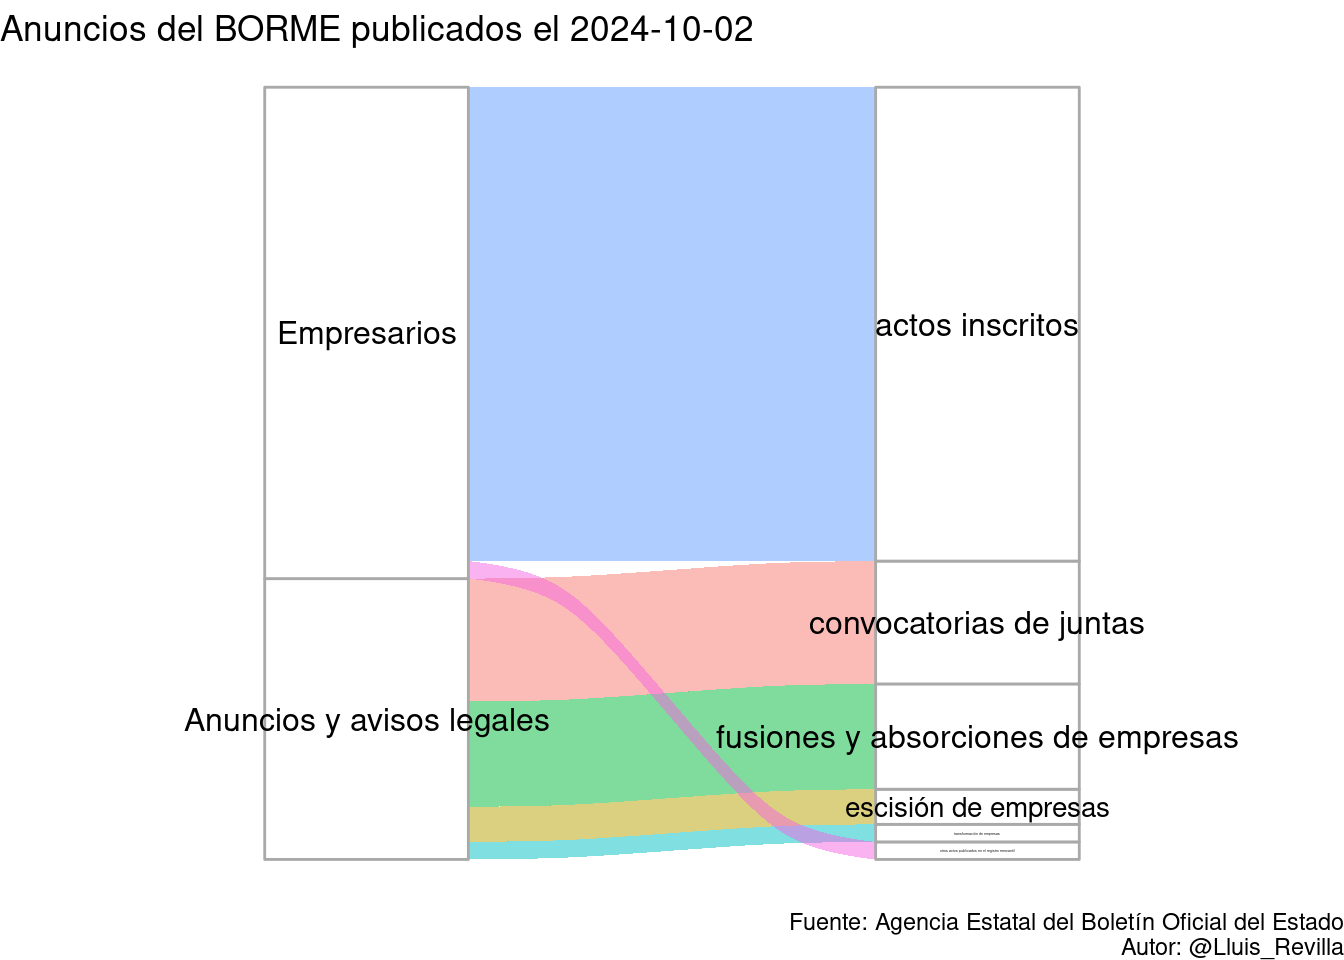
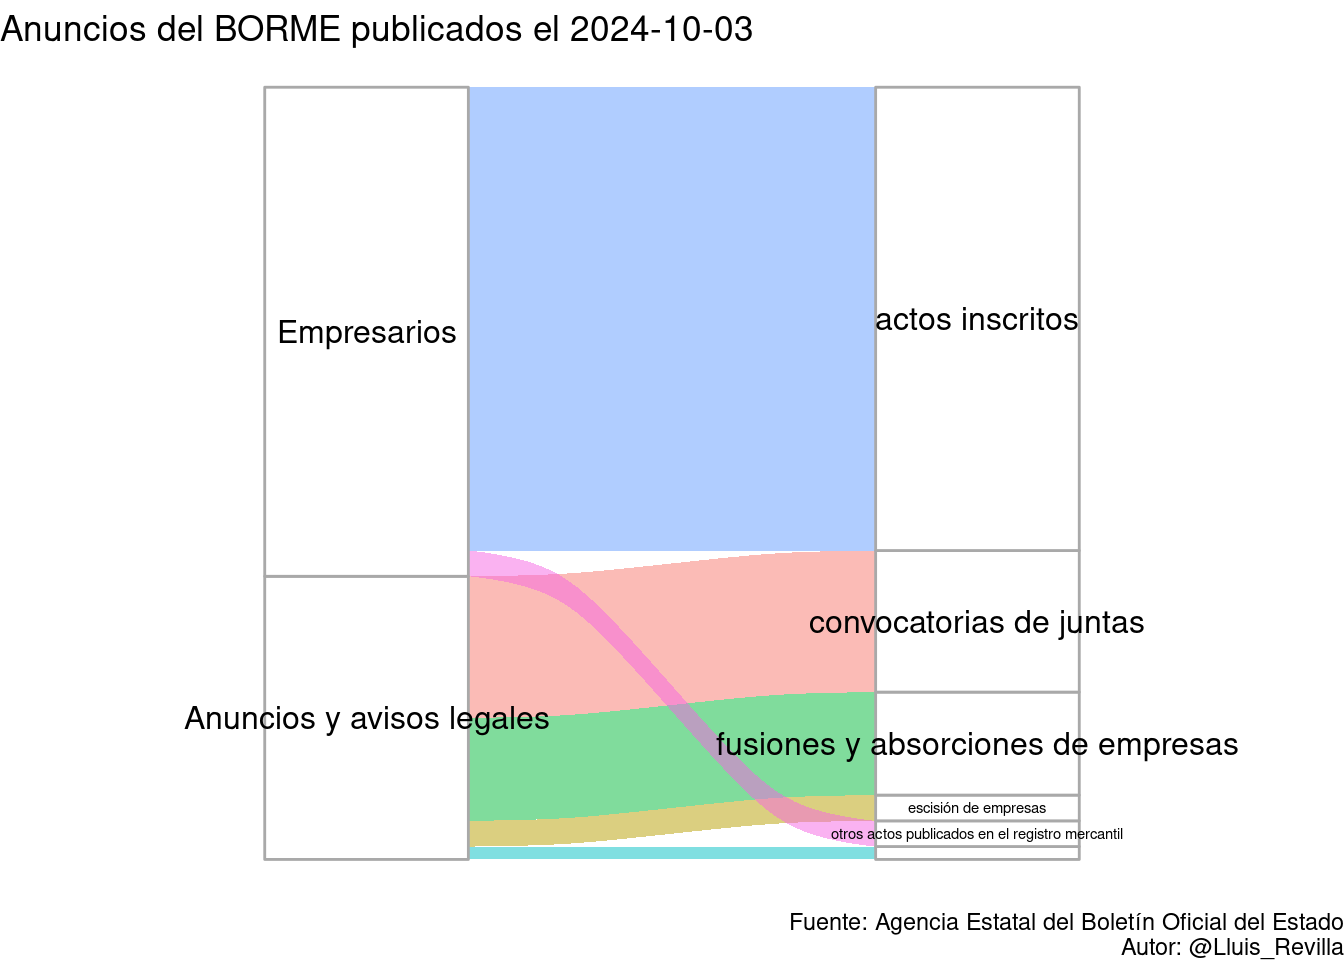
Update BORME

diff --git a/docs/last_BORME.html b/docs/last_BORME.html
@@ -379,14 +379,14 @@ $(document).ready(function () {
 
 <div id="resumen-gráfico" class="section level1">
 <h1>Resumen gráfico</h1>
-<p>Esta página web contiene el último sumario del BORME publicado el 2024-10-02 con 44 publicaciones.</p>
+<p>Esta página web contiene el último sumario del BORME publicado el 2024-10-03 con 60 publicaciones.</p>
 <p><img src="last_BORME_files/figure-html/graphics-1.png" width="672" /></p>
 </div>
 <div id="tabla-de-publicaciones" class="section level1">
 <h1>Tabla de publicaciones</h1>
 <p>Aquí está la tabla completa con enlaces a las publicaciones:</p>
-<div class="datatables html-widget html-fill-item-overflow-hidden html-fill-item" id="htmlwidget-44bd365028ac21843c6c" style="width:100%;height:auto;"></div>
-<script type="application/json" data-for="htmlwidget-44bd365028ac21843c6c">{"x":{"filter":"top","vertical":false,"filterHTML":"<tr>\n  <td><\/td>\n  <td data-type=\"character\" style=\"vertical-align: top;\">\n    <div class=\"form-group has-feedback\" style=\"margin-bottom: auto;\">\n      <input type=\"search\" placeholder=\"All\" class=\"form-control\" style=\"width: 100%;\"/>\n      <span class=\"glyphicon glyphicon-remove-circle form-control-feedback\"><\/span>\n    <\/div>\n  <\/td>\n  <td data-type=\"character\" style=\"vertical-align: top;\">\n    <div class=\"form-group has-feedback\" style=\"margin-bottom: auto;\">\n      <input type=\"search\" placeholder=\"All\" class=\"form-control\" style=\"width: 100%;\"/>\n      <span class=\"glyphicon glyphicon-remove-circle form-control-feedback\"><\/span>\n    <\/div>\n  <\/td>\n  <td data-type=\"character\" style=\"vertical-align: top;\">\n    <div class=\"form-group has-feedback\" style=\"margin-bottom: auto;\">\n      <input type=\"search\" placeholder=\"All\" class=\"form-control\" style=\"width: 100%;\" disabled=\"\"/>\n      <span class=\"glyphicon glyphicon-remove-circle form-control-feedback\"><\/span>\n    <\/div>\n  <\/td>\n  <td data-type=\"character\" style=\"vertical-align: top;\">\n    <div class=\"form-group has-feedback\" style=\"margin-bottom: auto;\">\n      <input type=\"search\" placeholder=\"All\" class=\"form-control\" style=\"width: 100%;\"/>\n      <span class=\"glyphicon glyphicon-remove-circle form-control-feedback\"><\/span>\n    <\/div>\n  <\/td>\n<\/tr>","data":[["1","2","3","4","5","6","7","8","9","10","11","12","13","14","15","16","17","18","19","20","21","22","23","24","25","26","27","28","29","30","31","32","33","34","35","36","37","38","39","40","41","42","43","44"],["SECCIÓN PRIMERA. Empresarios","SECCIÓN PRIMERA. Empresarios","SECCIÓN PRIMERA. Empresarios","SECCIÓN PRIMERA. Empresarios","SECCIÓN PRIMERA. Empresarios","SECCIÓN PRIMERA. Empresarios","SECCIÓN PRIMERA. Empresarios","SECCIÓN PRIMERA. Empresarios","SECCIÓN PRIMERA. Empresarios","SECCIÓN PRIMERA. Empresarios","SECCIÓN PRIMERA. Empresarios","SECCIÓN PRIMERA. Empresarios","SECCIÓN PRIMERA. Empresarios","SECCIÓN PRIMERA. Empresarios","SECCIÓN PRIMERA. Empresarios","SECCIÓN PRIMERA. Empresarios","SECCIÓN PRIMERA. Empresarios","SECCIÓN PRIMERA. Empresarios","SECCIÓN PRIMERA. Empresarios","SECCIÓN PRIMERA. Empresarios","SECCIÓN PRIMERA. Empresarios","SECCIÓN PRIMERA. Empresarios","SECCIÓN PRIMERA. Empresarios","SECCIÓN PRIMERA. Empresarios","SECCIÓN PRIMERA. Empresarios","SECCIÓN PRIMERA. Empresarios","SECCIÓN PRIMERA. Empresarios","SECCIÓN PRIMERA. Empresarios","SECCIÓN SEGUNDA. Anuncios y avisos legales","SECCIÓN SEGUNDA. Anuncios y avisos legales","SECCIÓN SEGUNDA. Anuncios y avisos legales","SECCIÓN SEGUNDA. Anuncios y avisos legales","SECCIÓN SEGUNDA. Anuncios y avisos legales","SECCIÓN SEGUNDA. Anuncios y avisos legales","SECCIÓN SEGUNDA. Anuncios y avisos legales","SECCIÓN SEGUNDA. Anuncios y avisos legales","SECCIÓN SEGUNDA. Anuncios y avisos legales","SECCIÓN SEGUNDA. Anuncios y avisos legales","SECCIÓN SEGUNDA. Anuncios y avisos legales","SECCIÓN SEGUNDA. Anuncios y avisos legales","SECCIÓN SEGUNDA. Anuncios y avisos legales","SECCIÓN SEGUNDA. Anuncios y avisos legales","SECCIÓN SEGUNDA. Anuncios y avisos legales","SECCIÓN SEGUNDA. Anuncios y avisos legales"],["Actos inscritos","Actos inscritos","Actos inscritos","Actos inscritos","Actos inscritos","Actos inscritos","Actos inscritos","Actos inscritos","Actos inscritos","Actos inscritos","Actos inscritos","Actos inscritos","Actos inscritos","Actos inscritos","Actos inscritos","Actos inscritos","Actos inscritos","Actos inscritos","Actos inscritos","Actos inscritos","Actos inscritos","Actos inscritos","Actos inscritos","Actos inscritos","Actos inscritos","Actos inscritos","Actos inscritos","Otros actos publicados en el Registro Mercantil","CONVOCATORIAS DE JUNTAS","CONVOCATORIAS DE JUNTAS","CONVOCATORIAS DE JUNTAS","CONVOCATORIAS DE JUNTAS","CONVOCATORIAS DE JUNTAS","CONVOCATORIAS DE JUNTAS","CONVOCATORIAS DE JUNTAS","FUSIONES Y ABSORCIONES DE EMPRESAS","FUSIONES Y ABSORCIONES DE EMPRESAS","FUSIONES Y ABSORCIONES DE EMPRESAS","FUSIONES Y ABSORCIONES DE EMPRESAS","FUSIONES Y ABSORCIONES DE EMPRESAS","FUSIONES Y ABSORCIONES DE EMPRESAS","ESCISIÓN DE EMPRESAS","ESCISIÓN DE EMPRESAS","TRANSFORMACIÓN DE EMPRESAS"],[null,null,null,null,null,null,null,null,null,null,null,null,null,null,null,null,null,null,null,null,null,null,null,null,null,null,null,null,null,null,null,null,null,null,null,null,null,null,null,null,null,null,null,null],["BORME-A-2024-190-02","BORME-A-2024-190-03","BORME-A-2024-190-04","BORME-A-2024-190-06","BORME-A-2024-190-07","BORME-A-2024-190-08","BORME-A-2024-190-11","BORME-A-2024-190-12","BORME-A-2024-190-16","BORME-A-2024-190-17","BORME-A-2024-190-21","BORME-A-2024-190-22","BORME-A-2024-190-23","BORME-A-2024-190-25","BORME-A-2024-190-28","BORME-A-2024-190-29","BORME-A-2024-190-30","BORME-A-2024-190-34","BORME-A-2024-190-35","BORME-A-2024-190-36","BORME-A-2024-190-40","BORME-A-2024-190-43","BORME-A-2024-190-45","BORME-A-2024-190-46","BORME-A-2024-190-47","BORME-A-2024-190-51","BORME-A-2024-190-99","BORME-B-2024-190-12","BORME-C-2024-5342","BORME-C-2024-5343","BORME-C-2024-5344","BORME-C-2024-5345","BORME-C-2024-5346","BORME-C-2024-5347","BORME-C-2024-5348","BORME-C-2024-5349","BORME-C-2024-5350","BORME-C-2024-5351","BORME-C-2024-5352","BORME-C-2024-5353","BORME-C-2024-5354","BORME-C-2024-5355","BORME-C-2024-5356","BORME-C-2024-5357"]],"container":"<table class=\"display\">\n  <thead>\n    <tr>\n      <th> <\/th>\n      <th>Sección<\/th>\n      <th>Emisor<\/th>\n      <th>Texto<\/th>\n      <th>Link<\/th>\n    <\/tr>\n  <\/thead>\n<\/table>","options":{"pageLength":10,"autoWidth":true,"columnDefs":[{"orderable":false,"targets":0},{"name":" ","targets":0},{"name":"Sección","targets":1},{"name":"Emisor","targets":2},{"name":"Texto","targets":3},{"name":"Link","targets":4}],"order":[],"orderClasses":false,"orderCellsTop":true}},"evals":[],"jsHooks":[]}</script>
+<div class="datatables html-widget html-fill-item-overflow-hidden html-fill-item" id="htmlwidget-08d57d18e624cca40288" style="width:100%;height:auto;"></div>
+<script type="application/json" data-for="htmlwidget-08d57d18e624cca40288">{"x":{"filter":"top","vertical":false,"filterHTML":"<tr>\n  <td><\/td>\n  <td data-type=\"character\" style=\"vertical-align: top;\">\n    <div class=\"form-group has-feedback\" style=\"margin-bottom: auto;\">\n      <input type=\"search\" placeholder=\"All\" class=\"form-control\" style=\"width: 100%;\"/>\n      <span class=\"glyphicon glyphicon-remove-circle form-control-feedback\"><\/span>\n    <\/div>\n  <\/td>\n  <td data-type=\"character\" style=\"vertical-align: top;\">\n    <div class=\"form-group has-feedback\" style=\"margin-bottom: auto;\">\n      <input type=\"search\" placeholder=\"All\" class=\"form-control\" style=\"width: 100%;\"/>\n      <span class=\"glyphicon glyphicon-remove-circle form-control-feedback\"><\/span>\n    <\/div>\n  <\/td>\n  <td data-type=\"character\" style=\"vertical-align: top;\">\n    <div class=\"form-group has-feedback\" style=\"margin-bottom: auto;\">\n      <input type=\"search\" placeholder=\"All\" class=\"form-control\" style=\"width: 100%;\" disabled=\"\"/>\n      <span class=\"glyphicon glyphicon-remove-circle form-control-feedback\"><\/span>\n    <\/div>\n  <\/td>\n  <td data-type=\"character\" style=\"vertical-align: top;\">\n    <div class=\"form-group has-feedback\" style=\"margin-bottom: auto;\">\n      <input type=\"search\" placeholder=\"All\" class=\"form-control\" style=\"width: 100%;\"/>\n      <span class=\"glyphicon glyphicon-remove-circle form-control-feedback\"><\/span>\n    <\/div>\n  <\/td>\n<\/tr>","data":[["1","2","3","4","5","6","7","8","9","10","11","12","13","14","15","16","17","18","19","20","21","22","23","24","25","26","27","28","29","30","31","32","33","34","35","36","37","38","39","40","41","42","43","44","45","46","47","48","49","50","51","52","53","54","55","56","57","58","59","60"],["SECCIÓN PRIMERA. Empresarios","SECCIÓN PRIMERA. Empresarios","SECCIÓN PRIMERA. Empresarios","SECCIÓN PRIMERA. Empresarios","SECCIÓN PRIMERA. Empresarios","SECCIÓN PRIMERA. Empresarios","SECCIÓN PRIMERA. Empresarios","SECCIÓN PRIMERA. Empresarios","SECCIÓN PRIMERA. Empresarios","SECCIÓN PRIMERA. Empresarios","SECCIÓN PRIMERA. Empresarios","SECCIÓN PRIMERA. Empresarios","SECCIÓN PRIMERA. Empresarios","SECCIÓN PRIMERA. Empresarios","SECCIÓN PRIMERA. Empresarios","SECCIÓN PRIMERA. Empresarios","SECCIÓN PRIMERA. Empresarios","SECCIÓN PRIMERA. Empresarios","SECCIÓN PRIMERA. Empresarios","SECCIÓN PRIMERA. Empresarios","SECCIÓN PRIMERA. Empresarios","SECCIÓN PRIMERA. Empresarios","SECCIÓN PRIMERA. Empresarios","SECCIÓN PRIMERA. Empresarios","SECCIÓN PRIMERA. Empresarios","SECCIÓN PRIMERA. Empresarios","SECCIÓN PRIMERA. Empresarios","SECCIÓN PRIMERA. Empresarios","SECCIÓN PRIMERA. Empresarios","SECCIÓN PRIMERA. Empresarios","SECCIÓN PRIMERA. Empresarios","SECCIÓN PRIMERA. Empresarios","SECCIÓN PRIMERA. Empresarios","SECCIÓN PRIMERA. Empresarios","SECCIÓN PRIMERA. Empresarios","SECCIÓN PRIMERA. Empresarios","SECCIÓN PRIMERA. Empresarios","SECCIÓN PRIMERA. Empresarios","SECCIÓN SEGUNDA. Anuncios y avisos legales","SECCIÓN SEGUNDA. Anuncios y avisos legales","SECCIÓN SEGUNDA. Anuncios y avisos legales","SECCIÓN SEGUNDA. Anuncios y avisos legales","SECCIÓN SEGUNDA. Anuncios y avisos legales","SECCIÓN SEGUNDA. Anuncios y avisos legales","SECCIÓN SEGUNDA. Anuncios y avisos legales","SECCIÓN SEGUNDA. Anuncios y avisos legales","SECCIÓN SEGUNDA. Anuncios y avisos legales","SECCIÓN SEGUNDA. Anuncios y avisos legales","SECCIÓN SEGUNDA. Anuncios y avisos legales","SECCIÓN SEGUNDA. Anuncios y avisos legales","SECCIÓN SEGUNDA. Anuncios y avisos legales","SECCIÓN SEGUNDA. Anuncios y avisos legales","SECCIÓN SEGUNDA. Anuncios y avisos legales","SECCIÓN SEGUNDA. Anuncios y avisos legales","SECCIÓN SEGUNDA. Anuncios y avisos legales","SECCIÓN SEGUNDA. Anuncios y avisos legales","SECCIÓN SEGUNDA. Anuncios y avisos legales","SECCIÓN SEGUNDA. Anuncios y avisos legales","SECCIÓN SEGUNDA. Anuncios y avisos legales","SECCIÓN SEGUNDA. Anuncios y avisos legales"],["Actos inscritos","Actos inscritos","Actos inscritos","Actos inscritos","Actos inscritos","Actos inscritos","Actos inscritos","Actos inscritos","Actos inscritos","Actos inscritos","Actos inscritos","Actos inscritos","Actos inscritos","Actos inscritos","Actos inscritos","Actos inscritos","Actos inscritos","Actos inscritos","Actos inscritos","Actos inscritos","Actos inscritos","Actos inscritos","Actos inscritos","Actos inscritos","Actos inscritos","Actos inscritos","Actos inscritos","Actos inscritos","Actos inscritos","Actos inscritos","Actos inscritos","Actos inscritos","Actos inscritos","Actos inscritos","Actos inscritos","Actos inscritos","Otros actos publicados en el Registro Mercantil","Otros actos publicados en el Registro Mercantil","CONVOCATORIAS DE JUNTAS","CONVOCATORIAS DE JUNTAS","CONVOCATORIAS DE JUNTAS","CONVOCATORIAS DE JUNTAS","CONVOCATORIAS DE JUNTAS","CONVOCATORIAS DE JUNTAS","CONVOCATORIAS DE JUNTAS","CONVOCATORIAS DE JUNTAS","CONVOCATORIAS DE JUNTAS","CONVOCATORIAS DE JUNTAS","CONVOCATORIAS DE JUNTAS","FUSIONES Y ABSORCIONES DE EMPRESAS","FUSIONES Y ABSORCIONES DE EMPRESAS","FUSIONES Y ABSORCIONES DE EMPRESAS","FUSIONES Y ABSORCIONES DE EMPRESAS","FUSIONES Y ABSORCIONES DE EMPRESAS","FUSIONES Y ABSORCIONES DE EMPRESAS","FUSIONES Y ABSORCIONES DE EMPRESAS","FUSIONES Y ABSORCIONES DE EMPRESAS","ESCISIÓN DE EMPRESAS","ESCISIÓN DE EMPRESAS","TRANSFORMACIÓN DE EMPRESAS"],[null,null,null,null,null,null,null,null,null,null,null,null,null,null,null,null,null,null,null,null,null,null,null,null,null,null,null,null,null,null,null,null,null,null,null,null,null,null,null,null,null,null,null,null,null,null,null,null,null,null,null,null,null,null,null,null,null,null,null,null],["BORME-A-2024-191-01","BORME-A-2024-191-02","BORME-A-2024-191-03","BORME-A-2024-191-04","BORME-A-2024-191-06","BORME-A-2024-191-07","BORME-A-2024-191-08","BORME-A-2024-191-09","BORME-A-2024-191-10","BORME-A-2024-191-11","BORME-A-2024-191-12","BORME-A-2024-191-13","BORME-A-2024-191-14","BORME-A-2024-191-15","BORME-A-2024-191-16","BORME-A-2024-191-17","BORME-A-2024-191-18","BORME-A-2024-191-23","BORME-A-2024-191-24","BORME-A-2024-191-25","BORME-A-2024-191-27","BORME-A-2024-191-28","BORME-A-2024-191-29","BORME-A-2024-191-31","BORME-A-2024-191-33","BORME-A-2024-191-35","BORME-A-2024-191-36","BORME-A-2024-191-37","BORME-A-2024-191-38","BORME-A-2024-191-41","BORME-A-2024-191-42","BORME-A-2024-191-45","BORME-A-2024-191-46","BORME-A-2024-191-48","BORME-A-2024-191-50","BORME-A-2024-191-99","BORME-B-2024-191-07","BORME-B-2024-191-31","BORME-C-2024-5358","BORME-C-2024-5359","BORME-C-2024-5360","BORME-C-2024-5361","BORME-C-2024-5362","BORME-C-2024-5363","BORME-C-2024-5364","BORME-C-2024-5365","BORME-C-2024-5366","BORME-C-2024-5367","BORME-C-2024-5368","BORME-C-2024-5369","BORME-C-2024-5370","BORME-C-2024-5371","BORME-C-2024-5372","BORME-C-2024-5373","BORME-C-2024-5374","BORME-C-2024-5375","BORME-C-2024-5376","BORME-C-2024-5377","BORME-C-2024-5378","BORME-C-2024-5379"]],"container":"<table class=\"display\">\n  <thead>\n    <tr>\n      <th> <\/th>\n      <th>Sección<\/th>\n      <th>Emisor<\/th>\n      <th>Texto<\/th>\n      <th>Link<\/th>\n    <\/tr>\n  <\/thead>\n<\/table>","options":{"pageLength":10,"autoWidth":true,"columnDefs":[{"orderable":false,"targets":0},{"name":" ","targets":0},{"name":"Sección","targets":1},{"name":"Emisor","targets":2},{"name":"Texto","targets":3},{"name":"Link","targets":4}],"order":[],"orderClasses":false,"orderCellsTop":true}},"evals":[],"jsHooks":[]}</script>
 </div>
 
 
